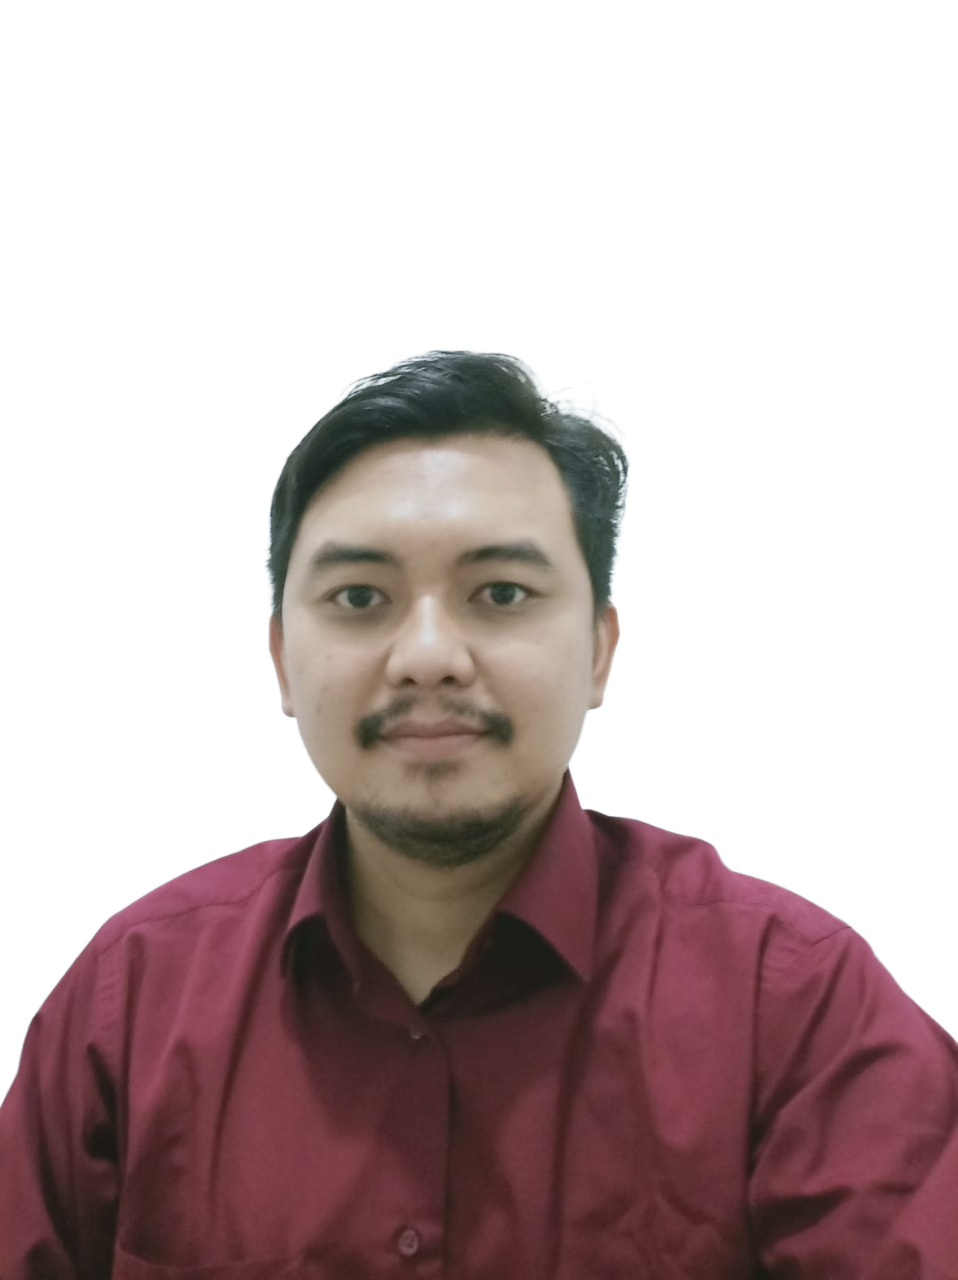
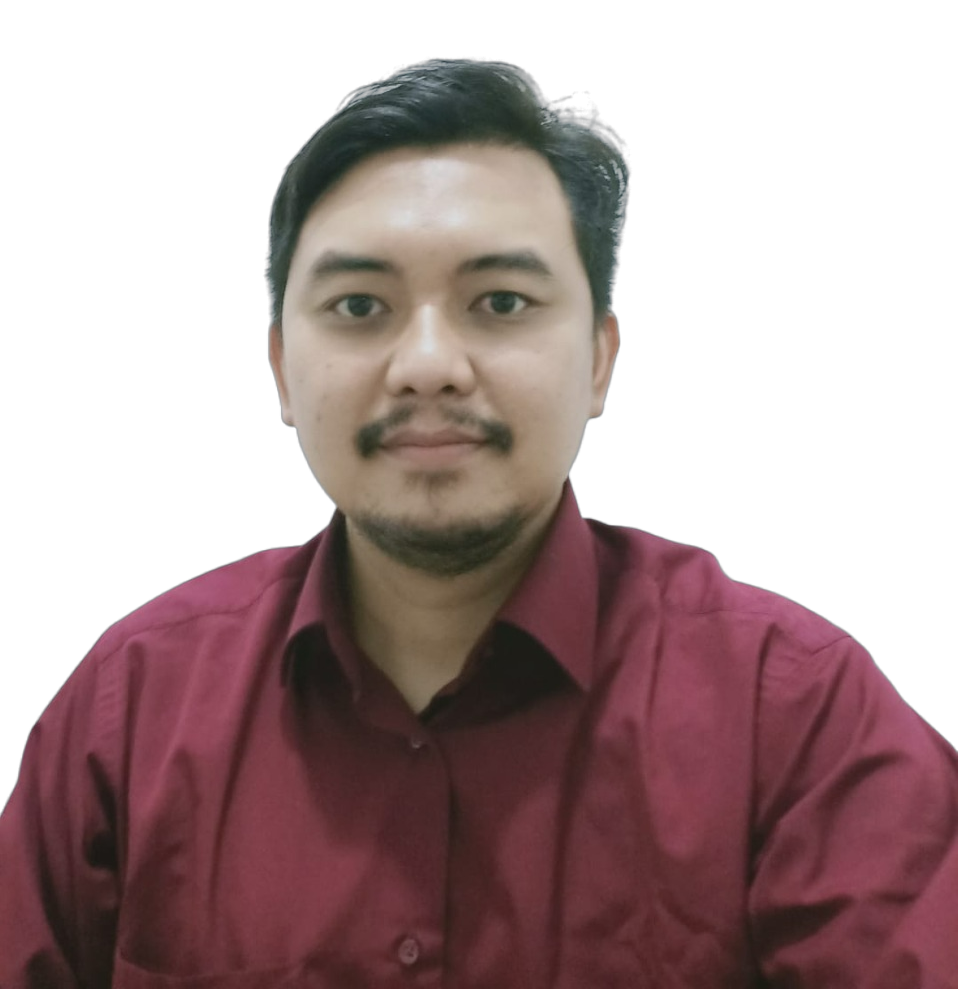
memperbaiki ukuran foto
memprbaiki ukuran foto dari expert supaya sama

diff --git a/index.html b/index.html
@@ -96,7 +96,7 @@
         <div class="title display-3"><h1>Expert Curhatinaja.idn</h1></div>
             <div class="row p-5">
                 <div class="col-sm-1 m-4"></div>
-                <div class="expert col-sm-4">
+                <div class="an expert col-sm-4">
                     <img src="foto/AN.png" 
                         class="rounded-circle mb-3">
                         <h4>Alfiah Nur Rohmah, M.PSI., PSI.</h4>
@@ -109,7 +109,7 @@
                         <li>Minat dan bakat</li>
                     </ul></p>
                 </div>
-                <div class="expert col-sm-4">
+                <div class="cs expert col-sm-4">
                         <img src="foto/CS.png"
                         class="rounded-circle mb-1">
                         <h4>Cindy Stefanie Tanjung, M.PSI., PSI.</h4>
@@ -129,7 +129,7 @@
                 </div>
                 <div class="col-sm-1"></div>
                 <div class="col-sm-1"></div>
-                <div class="col-sm-3 text-center expert">
+                <div class="ek expert col-sm-3 text-center expert">
                     <img src="foto/EK (NEW).png"
                         class="rounded-circle mb-3">
                         <h4>Elisa Kristiani, M.PSI., PSI.</h4>
@@ -148,7 +148,7 @@
                         <li>Organizational Communication</li>
                     </ul></p>
                 </div>
-                <div class="col-sm-3  text-center expert">
+                <div class="pa expert col-sm-3  text-center expert">
                     <img src="foto/PA.png" class="rounded-circle mb-3">
                     <h4>Pramudita Ardianti, M.PSI., PSI.</h4>
                     <p class="text-center">Industrial & Organization Psychologist</p>
@@ -169,7 +169,7 @@
                         <li>Work Engagement</li>
                     </ul></p>
                 </div>
-                <div class="col-sm-3  text-center expert">
+                <div class="rp expert col-sm-3  text-center expert">
                     <img src="foto/RP.png" class="rounded-circle mb-3">
                     <h4>Reza Para Yudha, M.PSI., PSI.</h4>
                     <p class="text-center">Clinical Psychologist</p>
@@ -186,8 +186,8 @@
                 </div>
                 <div class="col-sm-1 m-4"></div>
                 <!-- <div class="col-sm-1 m-4"></div> -->
-                <div class="col-sm-4  text-center expert">
-                    <img src="foto/RW.png" class="rounded-circle mb-3">
+                <div class="rw expert col-sm-4  text-center expert">
+                    <img src="foto/RW.png" class="rounded-circle mb-3" width="50%">
                     <h4>Rini Wulandari, M.PSI., PSI.</h4>
                     <p class="text-center">Clinical Psychologist</p>
                     <p><b>Fokus Kajian</b><br>
@@ -202,8 +202,8 @@
                         <li>Regulasi Emosi</li>
                     </ul></p>
                 </div>
-                <div class="col-sm-4  text-center expert">
-                    <img src="foto/TF.png" class="rounded-circle mb-3" width="70">
+                <div class="tf expert col-sm-4  text-center expert">
+                    <img src="foto/TF.png" class="rounded-circle mb-3" width="80%">
                     <h4>Trisce Felery Thendean, M.PSI., PSI.</h4>
                     <p class="text-center">Clinical Psychologist</p>
                     <p><b>Fokus Kajian</b><br>

diff --git a/index.css b/index.css
@@ -58,7 +58,7 @@ p{
     object-fit: cover;
 }
 .expert img{
-    width: 65%;
+    width: 50%;
     margin-top: 15px;
 }
 .expert{
@@ -166,4 +166,25 @@ h1{
 }
 .row .hubungin{
     background-color: #c3e0fe;
+}
+.rw img{
+    width: 50%;
+}
+.tf img{
+    width: 75%;
+}
+.an img{
+    width: 50%;
+}
+.cs img{
+    width: 55%;
+}
+.ek img{
+    width: 60%;
+}
+.pa img{
+    width: 70%;
+}
+.rp img{
+    width: 80%;
 }
